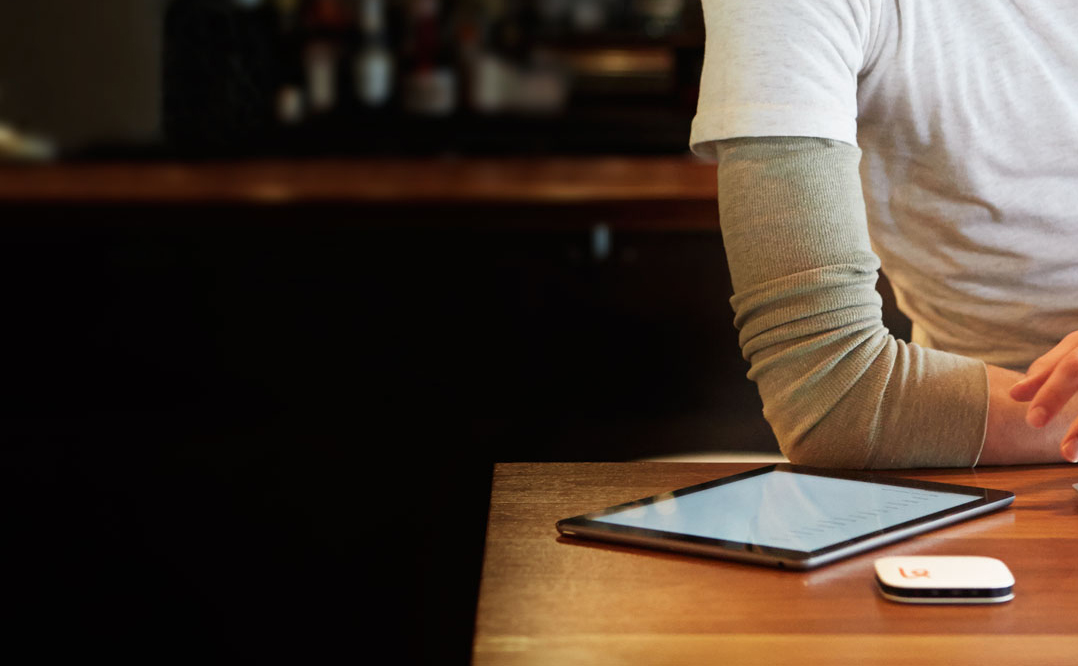
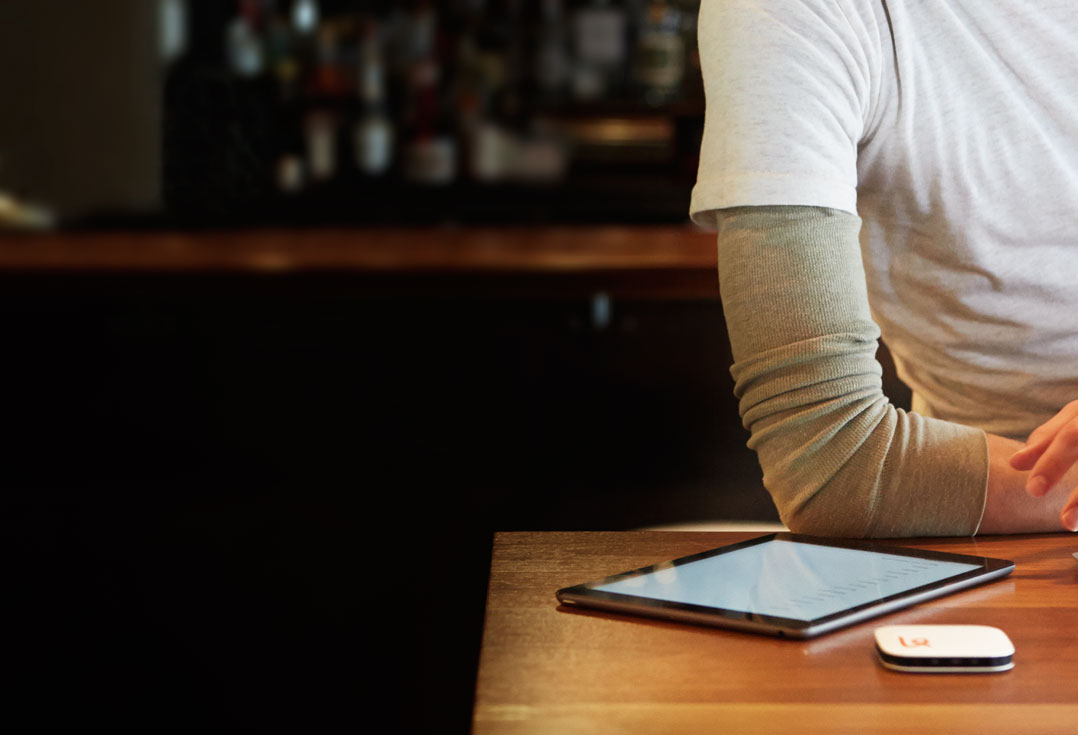
Adding container into navbar, small fixes in css.

diff --git a/index.html b/index.html
@@ -20,36 +20,38 @@
     <script src="https://kit.fontawesome.com/e8c9266318.js" crossorigin="anonymous"></script>
 
     <header>
-        <nav class="navbar navbar-expand-lg navbar-light menu">
-            <a class="navbar-brand" href="#">
-                <img class="logo" src="img/karma-logo.svg" alt="Logo">
-            </a>
-            <button class="navbar-toggler" type="button" data-toggle="collapse" data-target="#navbarNav"
-                aria-controls="navbarNav" aria-expanded="false" aria-label="Toggle navigation">
-                <span class="navbar-toggler-icon"></span>
-            </button>
-            <div class="collapse navbar-collapse" id="navbarNav">
-                <ul class="navbar-nav ml-auto">
-                    <li class="nav-item">
-                        <a class="nav-link karma-text active-link" href="#">Meet Karma<span
-                                class="sr-only">(current)</span></a>
-                    </li>
-                    <li class="nav-item nav-text">
-                        <a class="nav-link" href="#">How It Works</a>
-                    </li>
-                    <li class="nav-item nav-text">
-                        <a class="nav-link" href="#">Store</a>
-                    </li>
-                    <li class="nav-item nav-text">
-                        <a class="nav-link" href="#">Blog</a>
-                    </li>
-                    <li class="nav-item nav-text">
-                        <a class="nav-link" href="#">Help</a>
-                    </li>
-                    <li class="nav-item nav-text">
-                        <a class="nav-link" href="#">Login</a>
-                    </li>
-                </ul>
+        <nav class="navbar navbar-expand-lg navbar-light bg-light fixed-top menu">
+            <div class="container-fluid">
+                <a class="navbar-brand" href="#">
+                    <img class="logo" src="img/karma-logo.svg" alt="Logo">
+                </a>
+                <button class="navbar-toggler" type="button" data-toggle="collapse" data-target="#navbarNav"
+                    aria-controls="navbarNav" aria-expanded="false" aria-label="Toggle navigation">
+                    <span class="navbar-toggler-icon"></span>
+                </button>
+                <div class="collapse navbar-collapse" id="navbarNav">
+                    <ul class="navbar-nav ml-auto">
+                        <li class="nav-item">
+                            <a class="nav-link karma-text active-link" href="#">Meet Karma<span
+                                    class="sr-only">(current)</span></a>
+                        </li>
+                        <li class="nav-item nav-text">
+                            <a class="nav-link" href="#">How It Works</a>
+                        </li>
+                        <li class="nav-item nav-text">
+                            <a class="nav-link" href="#">Store</a>
+                        </li>
+                        <li class="nav-item nav-text">
+                            <a class="nav-link" href="#">Blog</a>
+                        </li>
+                        <li class="nav-item nav-text">
+                            <a class="nav-link" href="#">Help</a>
+                        </li>
+                        <li class="nav-item nav-text">
+                            <a class="nav-link" href="#">Login</a>
+                        </li>
+                    </ul>
+                </div>
             </div>
         </nav>
     </header>

diff --git a/css/style.css b/css/style.css
@@ -12,7 +12,7 @@ body {
 
 /* navbar*/
 .menu {
-  margin: 15px 90px 15px 120px;
+  padding: 15px 90px 15px 120px;
   font-size: 28px;
   color: var(--text-color);
 }
@@ -38,11 +38,13 @@ body {
 
 /*section1*/
 .section1 .box {
-  padding-top: 300px;
+  position: relative;
+  padding-top: 430px;
   padding-bottom: 470px;
 }
 
 .section1 h1 {
+  position: relative;
   text-align: center;
   font-size: 96px;
   font-weight: 300;
@@ -57,6 +59,14 @@ body {
   font-weight: 300;
   color: white;
   padding-bottom: 86px;
+}
+
+.section1_image {
+  position: absolute;
+  width: 100%;
+  height: auto;
+  z-index: -1;
+  object-fit: cover;
 }
 
 .section1 button {
@@ -79,14 +89,6 @@ button {
 button:hover {
   color: var(--main-color);
   background-color: white;
-}
-
-.section1_image {
-  position: absolute;
-  width: 100%;
-  height: auto;
-  z-index: -1;
-  object-fit: cover;
 }
 
 /*section2*/
@@ -146,6 +148,7 @@ button:hover {
 .section3 p {
   font-size: 54px;
   font-weight: 400;
+  line-height: 62px;
   color: #434242;
   text-align: center;
   padding-bottom: 40px;
